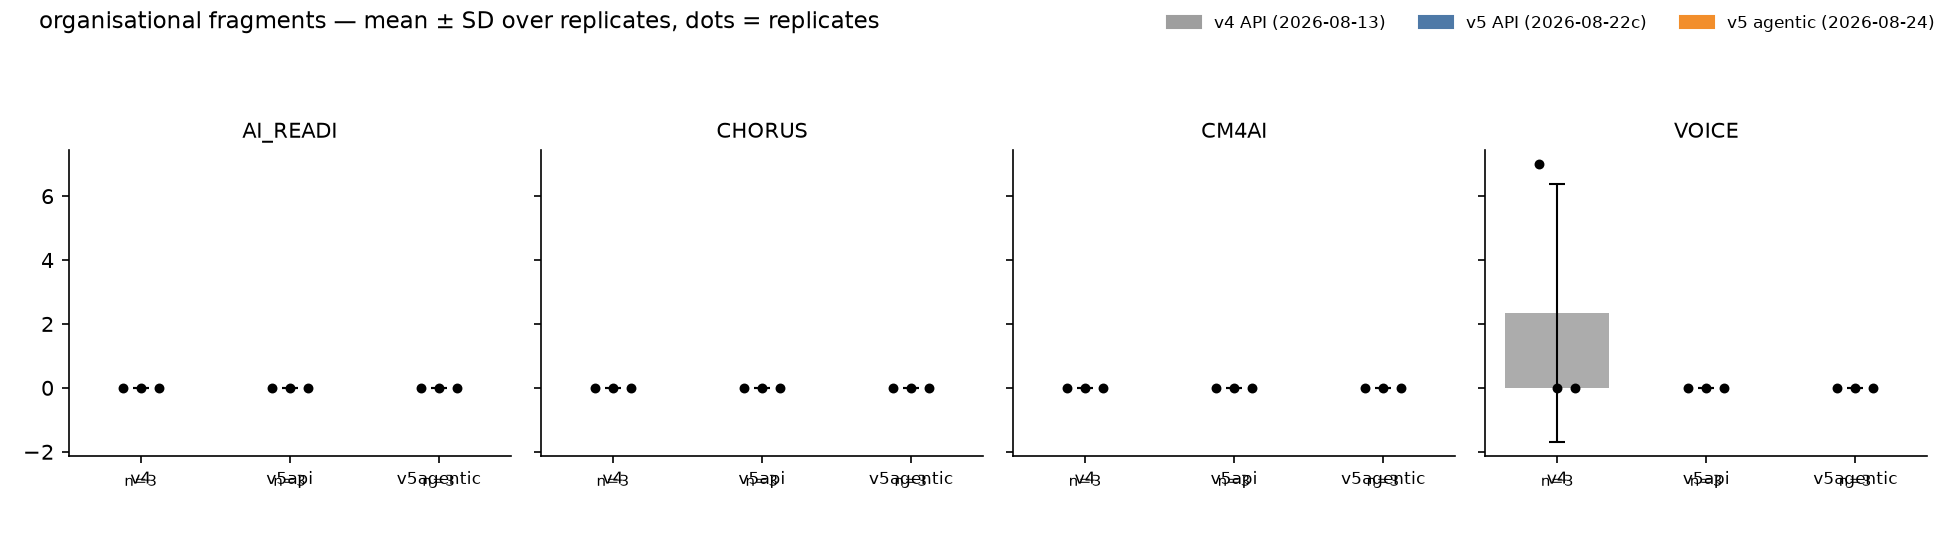
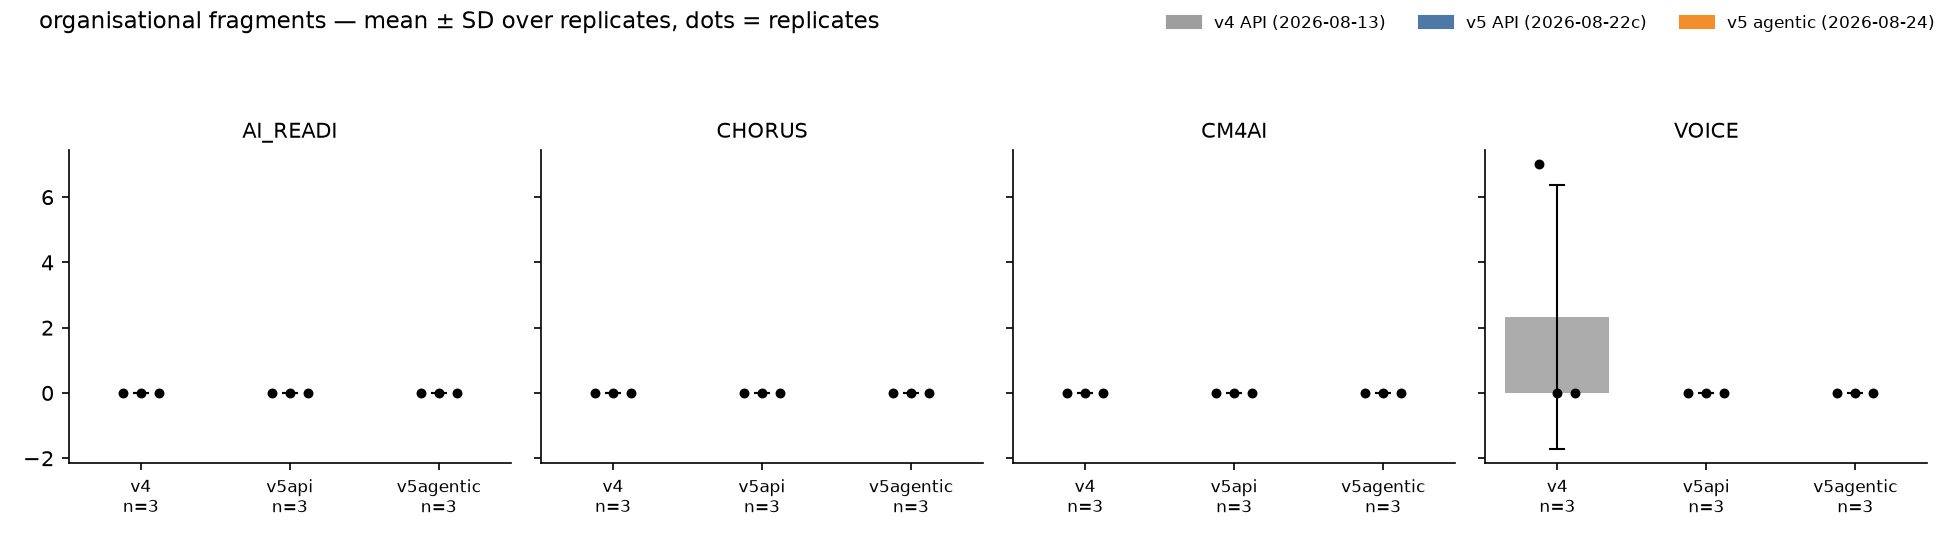
Figures: n in the tick label, not overlapping it

diff --git a/scripts/arm_comparison.py b/scripts/arm_comparison.py
@@ -313,6 +313,7 @@ def write_figures(data, scores) -> None:
     for mk, (disp, _src, _hiw, cav) in METRICS.items():
         fig, axes = plt.subplots(1, len(PROJECTS), figsize=(13, 3.6), sharey=True)
         for ax, p in zip(axes, PROJECTS):
+            ns: dict[int, int] = {}
             for i, (key, d, _pfx, _rt, role) in enumerate(ARMS):
                 reps = data[key][p]
                 st = stats(reps, mk)
@@ -324,16 +325,15 @@ def write_figures(data, scores) -> None:
                 vals = [r[mk] for r in reps if r.get(mk) is not None]
                 ax.scatter([i + (j - 1) * 0.12 for j in range(len(vals))], vals,
                            s=14, color="black", zorder=3)
-                ax.text(i, -0.06, f"n={n}", ha="center", va="top", fontsize=7,
-                        transform=ax.get_xaxis_transform())
+                ns[i] = n
             ax.set_xticks(range(len(ARMS)))
-            ax.set_xticklabels([k for k, *_ in ARMS], fontsize=8)
+            ax.set_xticklabels([f"{k}\nn={ns.get(i, 0)}" for i, (k, *_) in enumerate(ARMS)], fontsize=8)
             ax.set_title(p, fontsize=10)
             ax.spines[["top", "right"]].set_visible(False)
         handles = [plt.Rectangle((0, 0), 1, 1, color=colors[k]) for k, *_ in ARMS]
         fig.legend(handles, [d for _k, d, *_ in ARMS], loc="upper right", fontsize=8, ncol=3, frameon=False)
         fig.suptitle(f"{disp} — mean ± SD over replicates, dots = replicates", x=0.02, ha="left", fontsize=11)
-        fig.tight_layout(rect=(0, 0.04, 1, 0.9))
+        fig.tight_layout(rect=(0, 0, 1, 0.9))
         out = OUT_FIG / f"arm_comparison_{mk}.png"
         fig.savefig(out, dpi=150); plt.close(fig)
         print(f"wrote {out.relative_to(ROOT)}")
